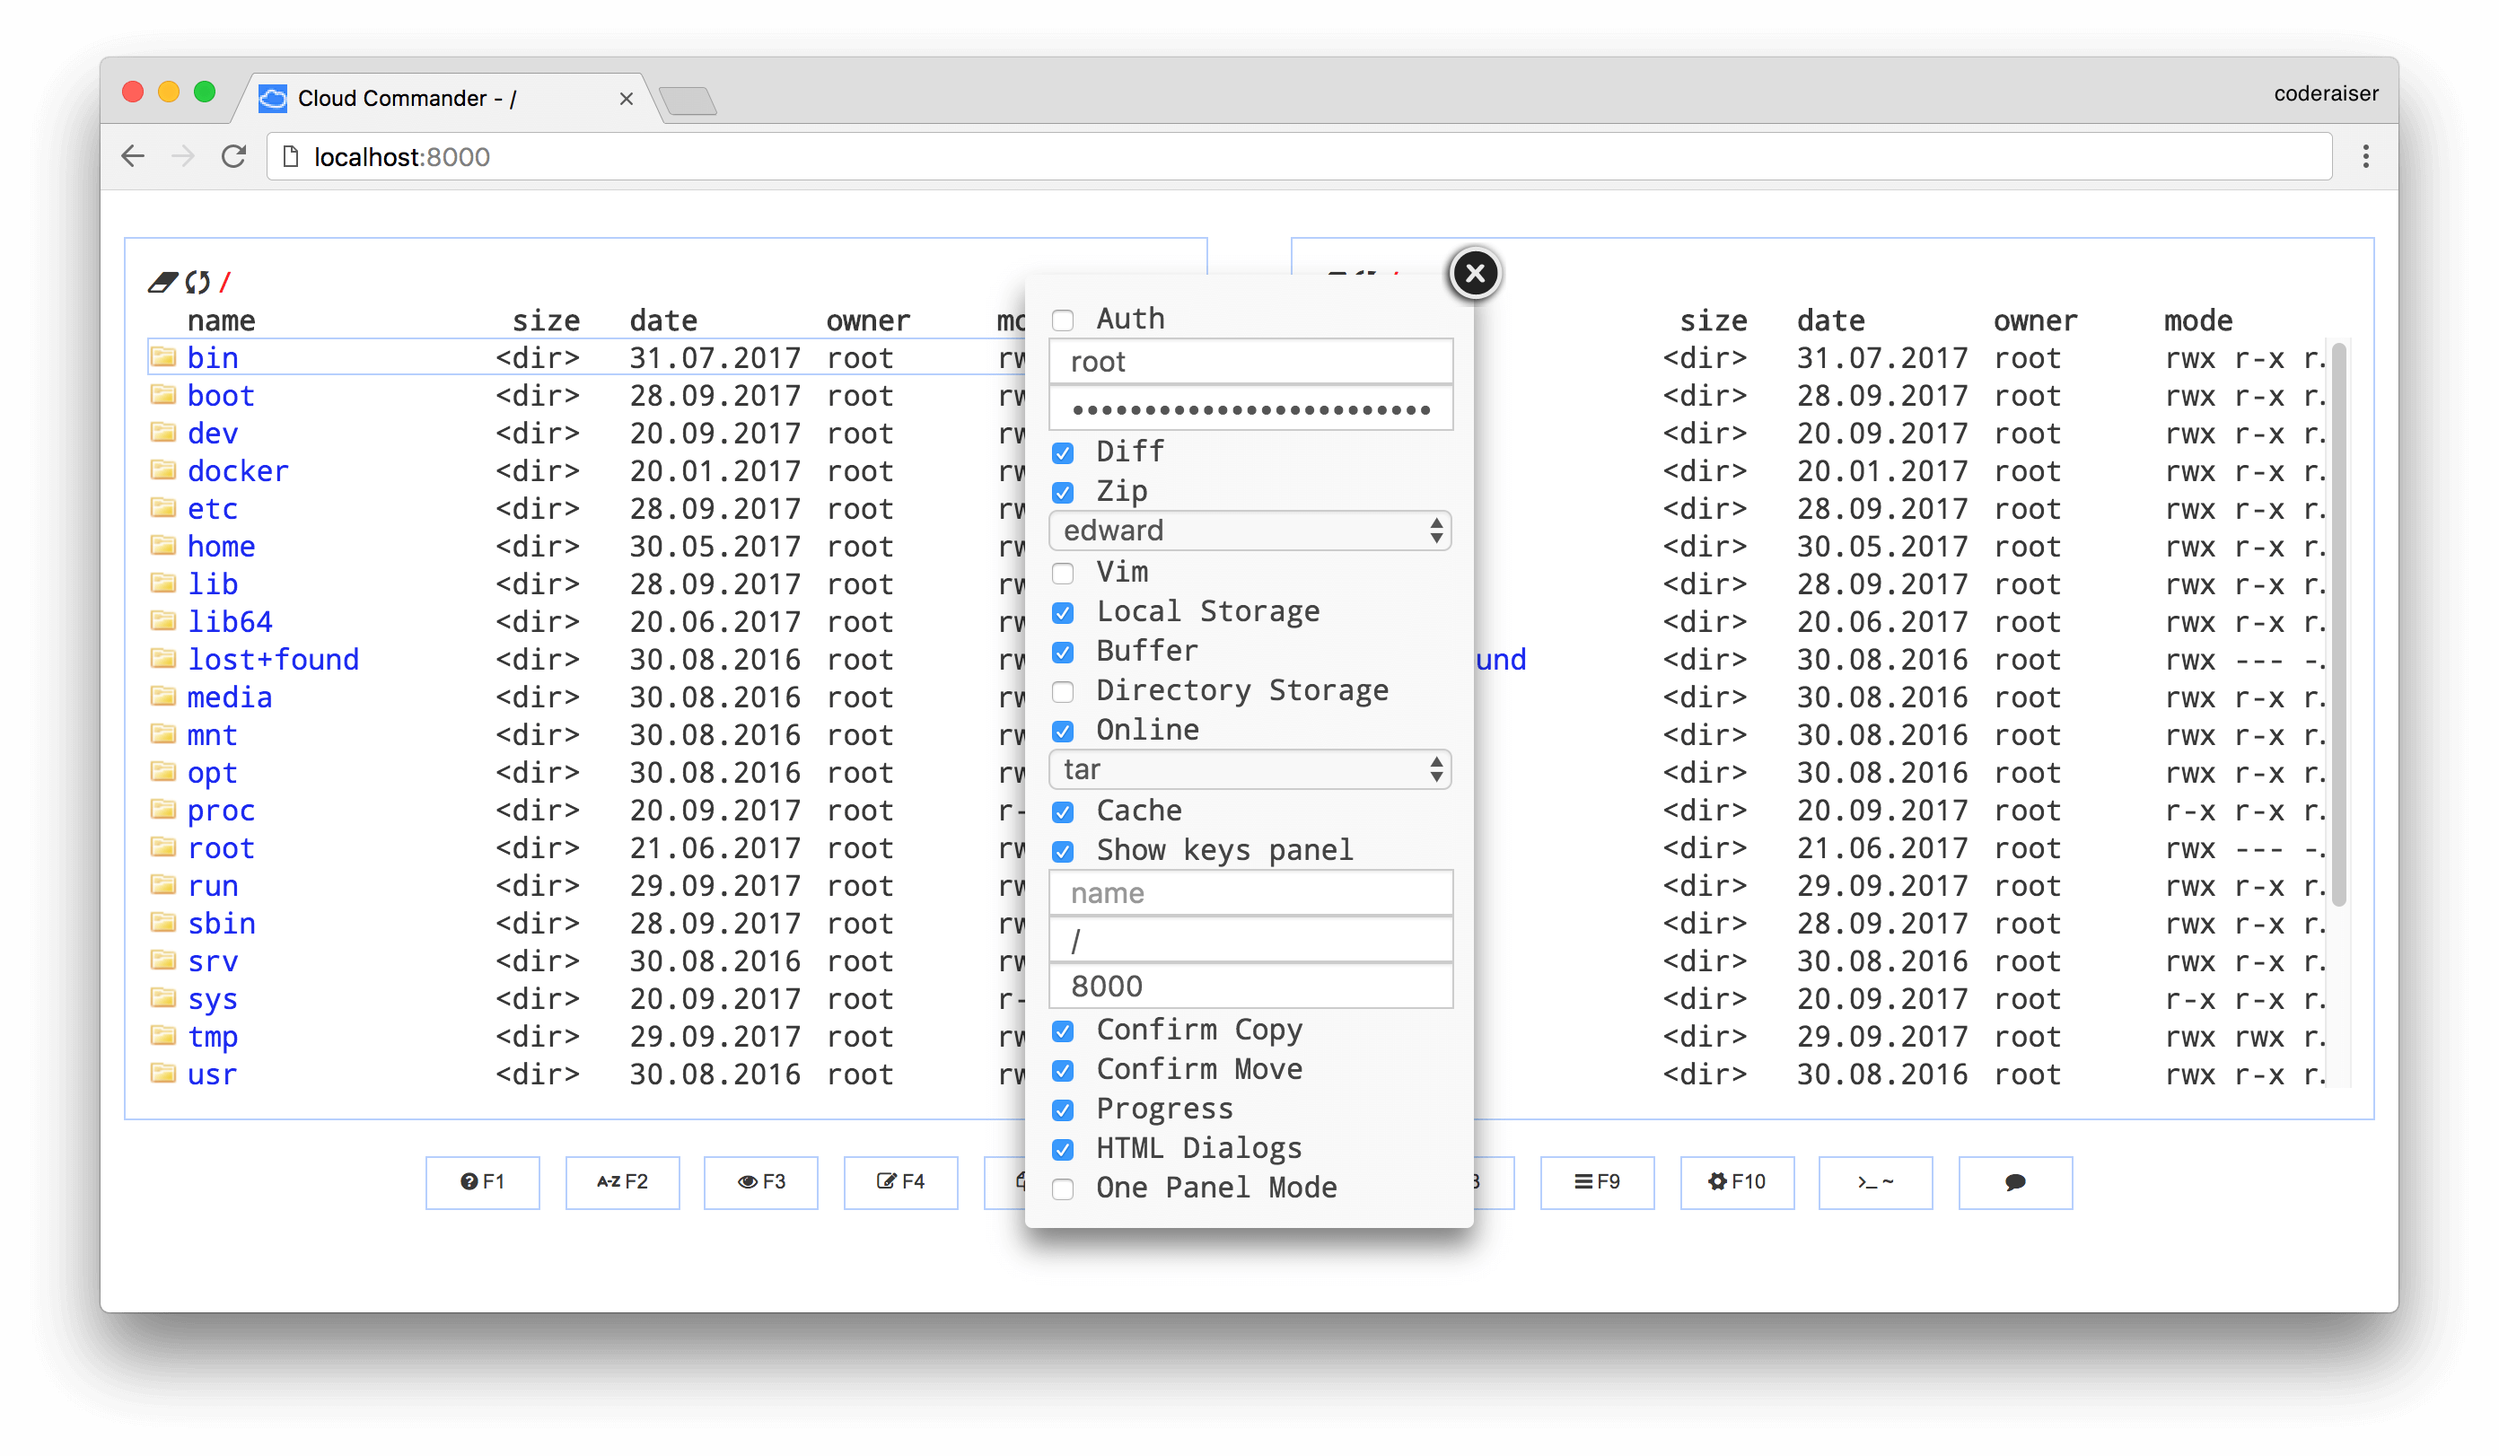
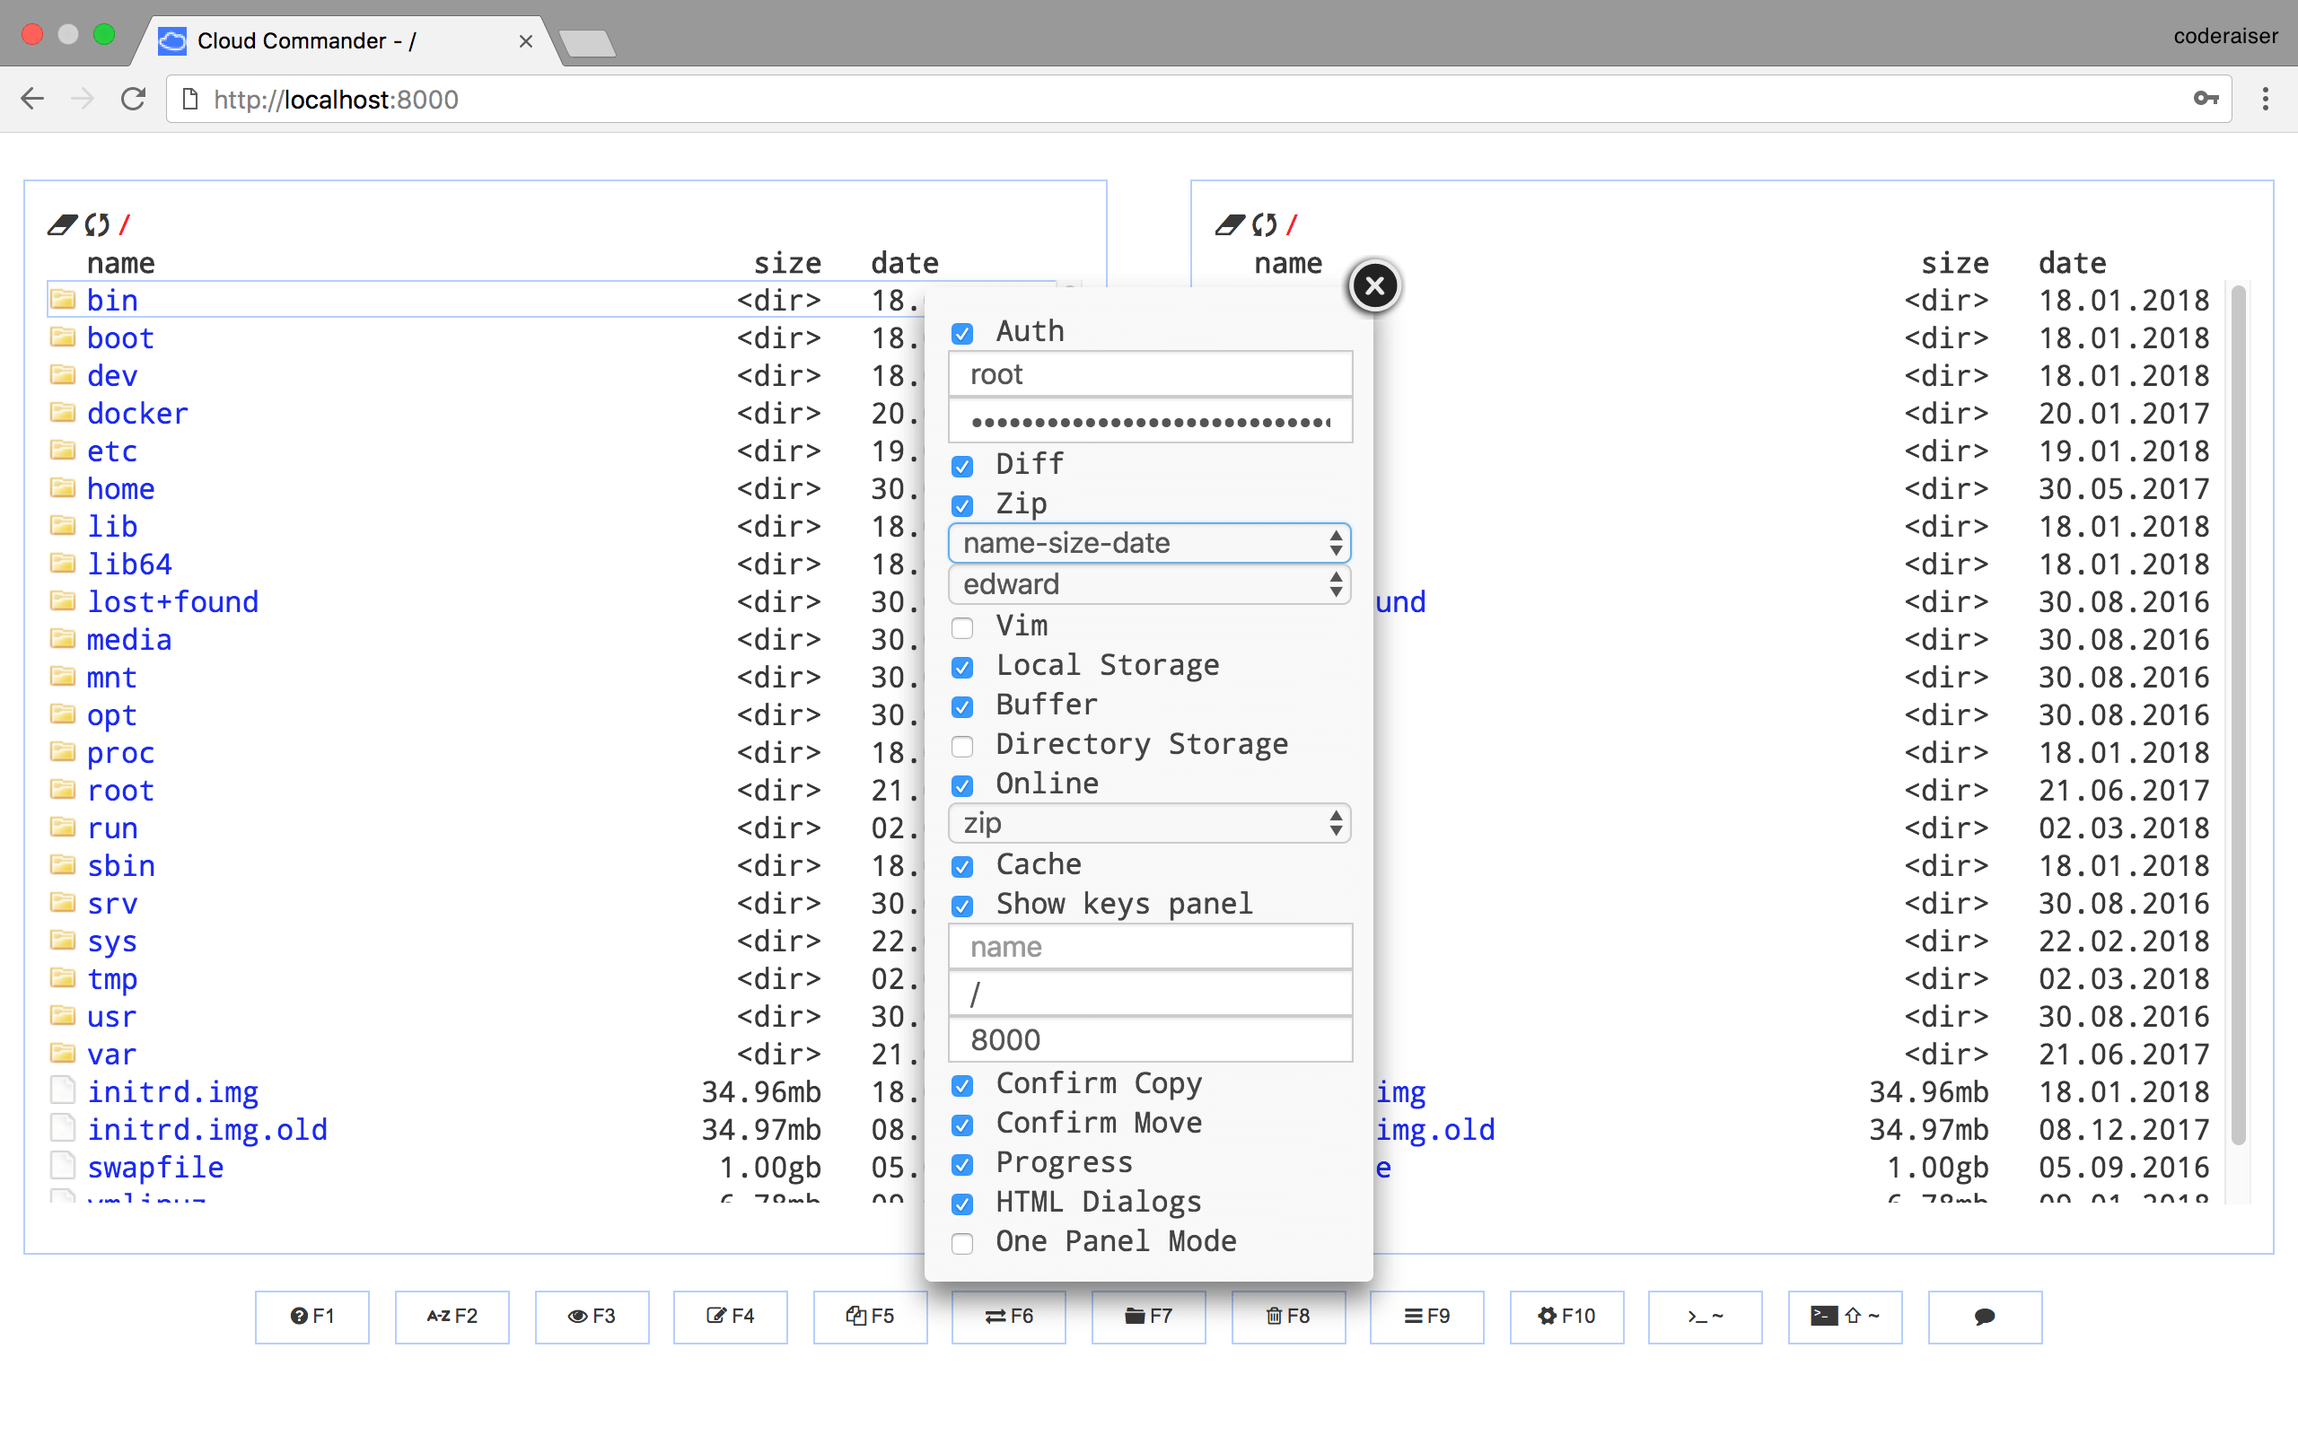
feature(cloudcmd) --columns: add ability to set visible columns (#146)

Changed region(s): [[0.0, 0.0, 1.0, 0.9688], [0.6875, 0.7812, 0.7188, 0.8125], [0.1875, 0.7812, 0.2188, 0.8125]]

diff --git a/webpack.config.js b/webpack.config.js
@@ -23,6 +23,7 @@ const extractNojs = new ExtractTextPlugin('nojs.css');
 
 const extractView = new ExtractTextPlugin('view.css');
 const extractConfig = new ExtractTextPlugin('config.css');
+const extractNameSizeDate = new ExtractTextPlugin('columns/name-size-date.css');
 
 const plugins = [
     new HtmlWebpackPlugin({
@@ -34,6 +35,7 @@ const plugins = [
     extractNojs,
     extractView,
     extractConfig,
+    extractNameSizeDate,
 ];
 
 const rules = clean([
@@ -43,7 +45,7 @@ const rules = clean([
         loader: 'babel-loader',
     }, {
         test: /\.css$/,
-        exclude: /css\/(nojs|view|config)\.css/,
+        exclude: /css\/(nojs|view|config|columns.*)\.css/,
         use: extractMain.extract([
             'css-loader?minimize',
         ]),
@@ -51,6 +53,7 @@ const rules = clean([
     extract('nojs', extractNojs),
     extract('view', extractView),
     extract('config', extractConfig),
+    extract('columns/name-size-date', extractNameSizeDate),
     {
         test: /\.(png|gif|svg|woff|woff2|eot|ttf)$/,
         loader: 'url-loader?limit=50000',
@@ -154,7 +157,7 @@ function getMinifyHtmlOptions() {
         removeStyleLinkTypeAttributes:  true,
         
         minifyJS:                       true,
-        minifyCSS:                      true
+        minifyCSS:                     false, 
     };
 }
 

diff --git a/bin/cloudcmd.js b/bin/cloudcmd.js
@@ -29,6 +29,7 @@ const args = require('minimist')(argv.slice(2), {
         'root',
         'prefix',
         'terminal-path',
+        'columns',
     ],
     boolean: [
         'auth',
@@ -74,6 +75,7 @@ const args = require('minimist')(argv.slice(2), {
         'confirm-move': choose(env.bool('confirm_move'), config('confirmMove')),
         'html-dialogs': config('htmlDialogs'),
         'vim': choose(env.bool('vim'), config('vim')),
+        'columns': env('columns') || config('columns') || '',
     },
     alias: {
         v: 'version',
@@ -119,6 +121,7 @@ function main() {
     config('prefix', args.prefix);
     config('root', args.root);
     config('vim', args.vim);
+    config('columns', args.columns);
     config('htmlDialogs', args['html-dialogs']);
     config('confirmCopy', args['confirm-copy']);
     config('confirmMove', args['confirm-move']);
@@ -131,7 +134,8 @@ function main() {
         root: args.root || '/', /* --no-root */
         editor: args.editor,
         packer: args.packer,
-        prefix: args.prefix
+        prefix: args.prefix,
+        columns: args.columns,
     };
     
     const password = env('password') || args.password;

diff --git a/server/validate.js b/server/validate.js
@@ -1,12 +1,9 @@
 'use strict';
 
 const exit = require('./exit');
+const columns = require('./columns');
 
-module.exports.root = root;
-module.exports.editor = editor;
-module.exports.packer = packer;
-
-function root(dir, fn) {
+module.exports.root = (dir, fn) => {
     if (typeof dir !== 'string')
         throw Error('dir should be a string');
     
@@ -22,19 +19,28 @@ function root(dir, fn) {
         if (typeof fn === 'function')
             fn('root:', dir);
     });
-}
+};
 
-function editor(name) {
+module.exports.editor = (name) => {
     const reg = /^(dword|edward|deepword)$/;
     
     if (!reg.test(name))
         exit('cloudcmd --editor: could be "dword", "edward" or "deepword" only');
-}
+};
 
-function packer(name) {
+module.exports.packer = (name) => {
     const reg = /^(tar|zip)$/;
     
     if (!reg.test(name))
         exit('cloudcmd --packer: could be "tar" or "zip" only');
-}
+};
+
+module.exports.columns = (type) => {
+    const all = Object
+        .keys(columns)
+        .concat('');
+    
+    if (!~all.indexOf(type))
+        exit('cloudcmd --columns: could be "name-size-date" or "name-size-date-owner-mode"');
+};
 

diff --git a/test/server/validate.js b/test/server/validate.js
@@ -107,6 +107,37 @@ test('validate: editor: not valid', (t) => {
     t.end();
 });
 
+test('validate: columns', (t) => {
+    const fn = sinon.stub();
+    
+    clean();
+    require(exitPath);
+    stub(exitPath, fn);
+    
+    const {columns} = require(validatePath);
+    
+    columns('name-size-date');
+    
+    t.notOk(fn.called, 'should not call exit');
+    t.end();
+});
+
+test('validate: columns: wrong', (t) => {
+    const fn = sinon.stub();
+    
+    clean();
+    require(exitPath);
+    stub(exitPath, fn);
+    
+    const {columns} = require(validatePath);
+    const msg = 'cloudcmd --columns: could be "name-size-date" or "name-size-date-owner-mode"';
+    
+    columns('hello');
+    
+    t.ok(fn.calledWith(msg), 'should call exit');
+    t.end();
+});
+
 function clean() {
     clear(validatePath);
     clear(exitPath);

diff --git a/html/index.html b/html/index.html
@@ -7,12 +7,14 @@
         <!-- mobile first design -->
         <meta content="width=device-width,initial-scale=1" name="viewport">
         <link rel="icon" href="{{ prefix }}/favicon.ico">
-        <title>{{ title }}</title>
         
         <link rel=stylesheet href="{{ prefix }}/dist/cloudcmd.css">
         <noscript>
             <link rel=stylesheet href="{{ prefix }}/dist/nojs.css">
         </noscript>
+        <style data-name="columns">
+            {{ columns }}
+        </style>
     </head>
     <body>
         <div class=fm>{{ fm }}</div>

diff --git a/server/cloudcmd.js b/server/cloudcmd.js
@@ -54,19 +54,8 @@ module.exports = (params) => {
     keys.forEach((name) => {
         const value = options[name];
         
-        switch(name) {
-        case 'root':
-            validate.root(value);
-            break;
-        
-        case 'editor':
-            validate.editor(value);
-            break;
-        
-        case 'packer':
-            validate.packer(value);
-            break;
-        }
+        if (/root|editor|packer|columns/.test(name))
+            validate[name](value);
         
         config(name, value);
     });

diff --git a/server/route.js b/server/route.js
@@ -14,6 +14,7 @@ const format = require('format-io');
 const squad = require('squad/legacy');
 const apart = require('apart');
 
+const columns = require(DIR_SERVER + 'columns');
 const config = require(DIR_SERVER + 'config');
 const root = require(DIR_SERVER + 'root');
 const prefixer = require(DIR_SERVER + 'prefixer');
@@ -99,6 +100,7 @@ function indexProcessing(options) {
         fm: left + right,
         prefix: prefix(),
         config: JSON.stringify(config('*')),
+        columns: columns[config('columns')],
     });
     
     return data;

diff --git a/server/columns.js b/server/columns.js
@@ -1,0 +1,17 @@
+'use strict';
+
+const fs = require('fs');
+const isDev = process.NODE_ENV === 'development';
+const dir = getDirPath(isDev);
+
+module.exports = {
+    '': '',
+    'name-size-date': fs.readFileSync(`${dir}/name-size-date.css`, 'utf8'),
+    'name-size-date-owner-mode': '',
+};
+
+function getDirPath (isDev) {
+    const dist = isDev ? 'dist-dev' : 'dist';
+    return `${__dirname}/../${dist}/columns`;
+}
+

diff --git a/client/modules/config.js b/client/modules/config.js
@@ -165,6 +165,9 @@ function fillTemplate(error, template) {
         obj[obj.packer + '-selected'] = 'selected';
         delete obj.packer;
         
+        obj[obj.columns + '-selected'] = 'selected';
+        delete obj.columns;
+        
         const inner = rendy(Template, obj);
         
         Element = DOM.load({

diff --git a/client/cloudcmd.js b/client/cloudcmd.js
@@ -2,6 +2,7 @@
 
 require('../css/main.css');
 require('../css/nojs.css');
+require('../css/columns/name-size-date.css');
 
 // prevent additional loading of exec by spero, remedy, ishtar, salam, omnes
 window.exec = require('execon');

diff --git a/css/columns/name-size-date.css b/css/columns/name-size-date.css
@@ -1,0 +1,12 @@
+.name {
+    width: 59%;
+}
+
+.owner {
+    display: none;
+}
+
+.mode {
+    display: none;
+}
+

diff --git a/client/dom/load.js b/client/dom/load.js
@@ -358,3 +358,4 @@ load.style = (params) => {
         element,
     });
 };
+
